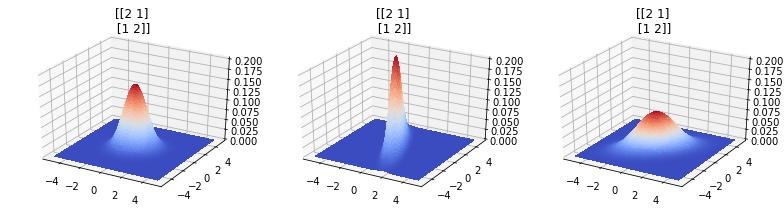
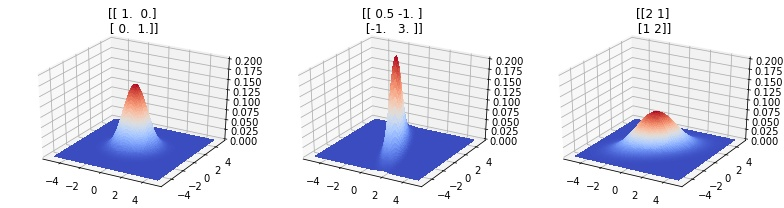
Opravy chybek a preklepu

Changed region(s): [[0.1224, 0.0288, 0.2143, 0.1731], [0.4592, 0.0288, 0.551, 0.1731]]

diff --git a/zdrojaky/l1-2d-gaussovka.py b/zdrojaky/l1-2d-gaussovka.py
@@ -26,7 +26,7 @@ for c in covs:
 
 fig, axs = plt.subplots(1, 3, subplot_kw=dict(projection='3d'),
                         figsize=(11,3))
-for ax, z in zip(axs, zs):
+for ax, z, c in zip(axs, zs, covs):
 #    rgb = ls.shade(z, cmap=cm.gist_earth, vert_exag=0.1, blend_mode='soft')
     surf = ax.plot_surface(xv, yv, z, rstride=1, cstride=1, cmap=cm.coolwarm,#facecolors=rgb,
                            linewidth=0, antialiased=False, shade=False)
